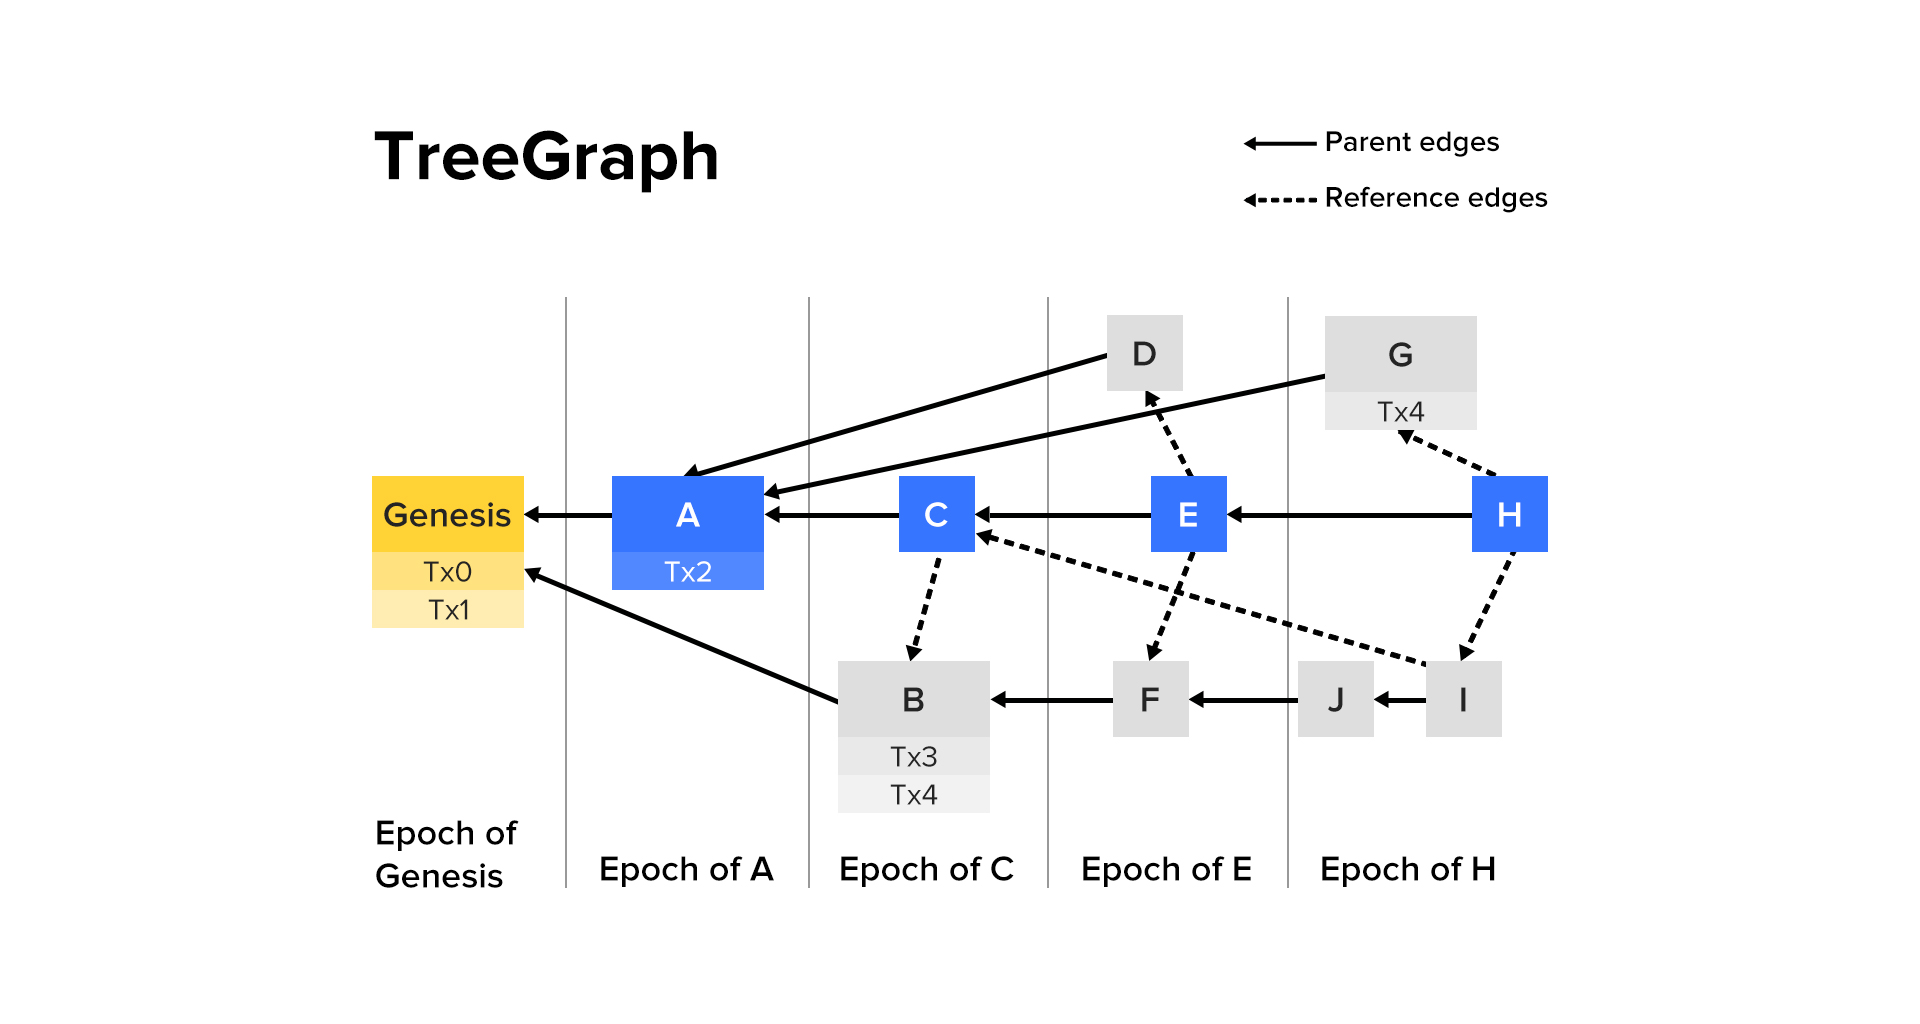
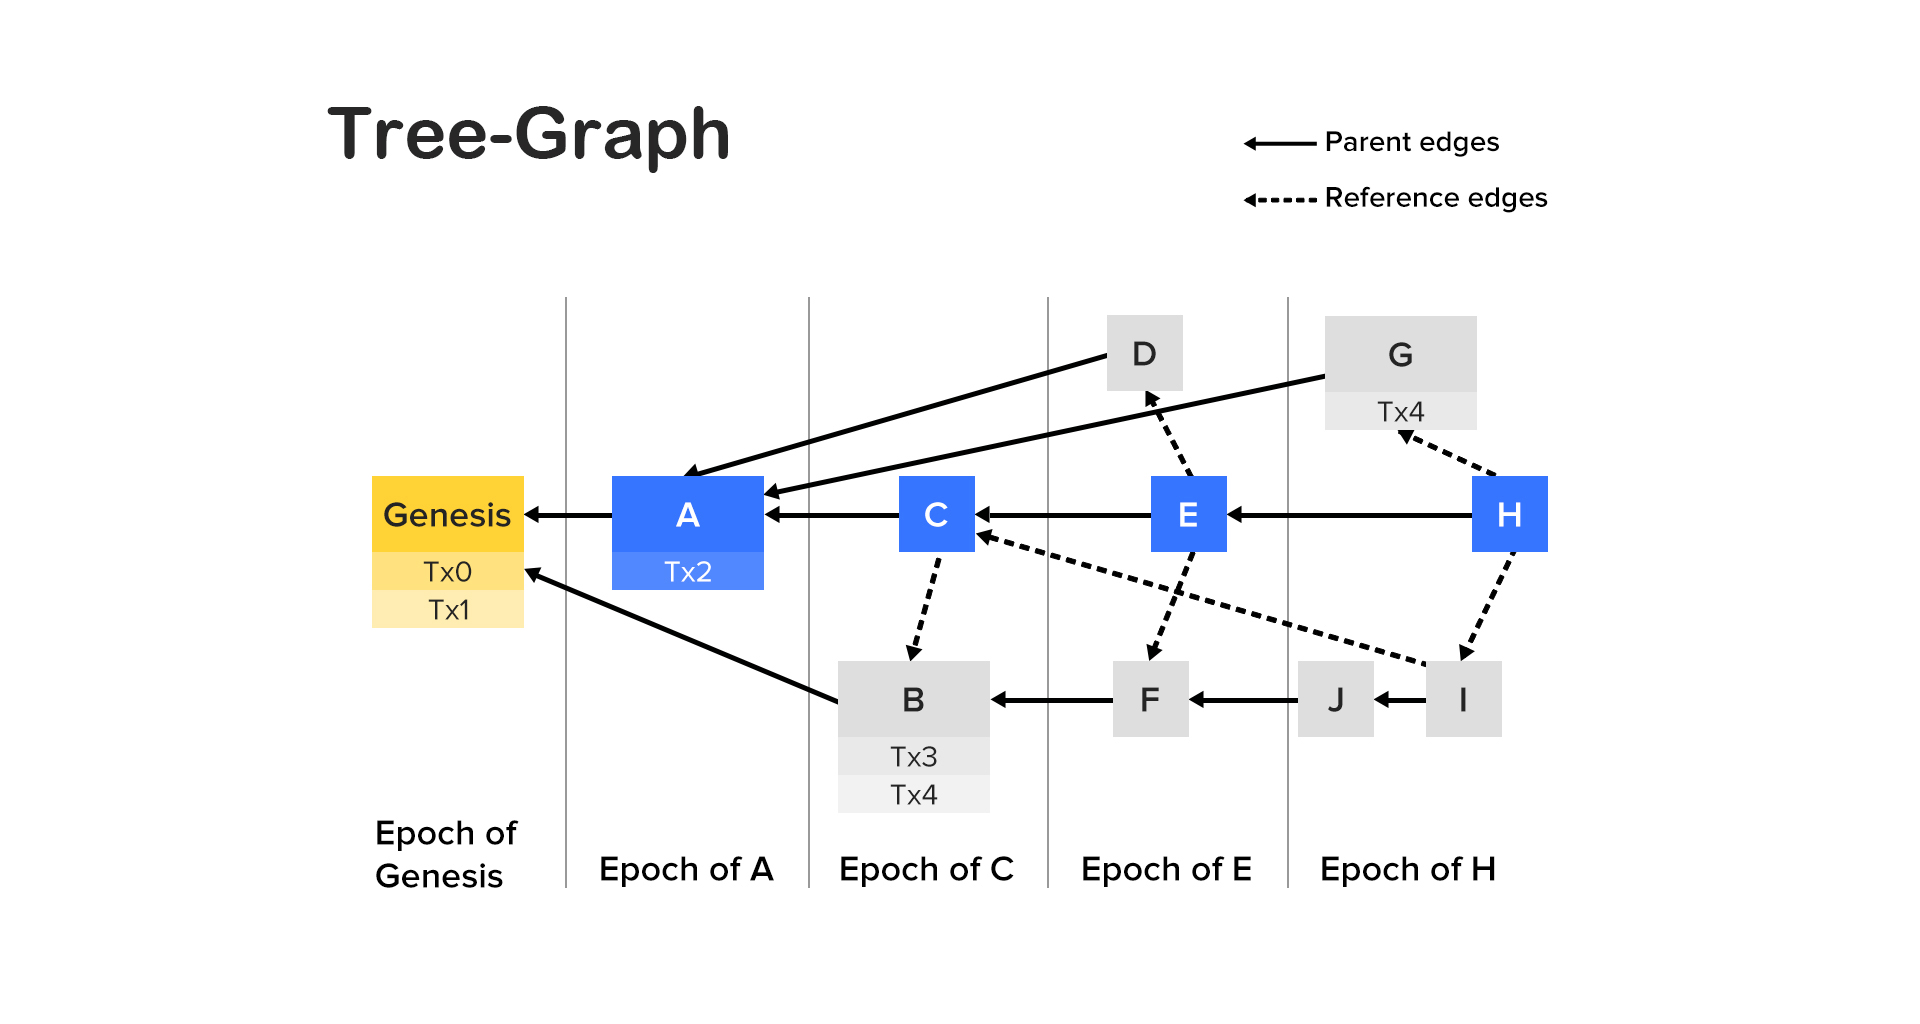
remove landing page

Changed region(s): [[0.1562, 0.0938, 0.4062, 0.1875]]

diff --git a/docusaurus.config.js b/docusaurus.config.js
@@ -105,6 +105,7 @@ const docusaurusConfig = {
       {
         docs: {
           sidebarPath: require.resolve('./sidebars.js'),
+          routeBasePath: '/',
           // Please change this to your repo.
           editUrl:
             'https://github.com/facebook/docusaurus/edit/master/website/',

diff --git a/docs/introduction/en/overview.md b/docs/introduction/en/overview.md
@@ -2,6 +2,7 @@
 id: conflux_overview
 title: Overview
 custom_edit_url: https://github.com/Conflux-Chain/conflux-developer-site/edit/master/docs/introduction/en/overview.md
+slug: /
 keywords:
   - conflux
   - overview
@@ -15,14 +16,14 @@ magnitude improvement on transaction throughput (TPS) and finality latency.
 
 The major superiority of Conflux hinges on its novel design of consensus
 protocol, authenticated storage, and transaction relay protocol. In Conflux
-ledger, blocks are organized as **TreeGraph** where each block references some
+ledger, blocks are organized as **Tree-Graph** where each block references some
 other blocks with one of them being its parent block. By only looking at the
 blocks linked with parent edges, the ledger appears to be a tree structure
 (parental tree), while by looking at all the blocks, it appears to be a directed
 acyclic graph. This is also the reason that we call the ledger structure of
-Conflux as TreeGraph. 
+Conflux as Tree-Graph. 
 
-<img alt="TreeGraph " src={useBaseUrl('img/tree_graph.jpg')} />
+<img alt="Tree-Graph " src={useBaseUrl('img/tree_graph.jpg')} />
 
 The consensus algorithm of Conflux, which is called
 **Greedy-Heaviest-Adaptive-SubTree** (GHAST), enables all the nodes in the
@@ -34,7 +35,7 @@ attack that tries to generate two balanced subtrees) that may hurt the liveness,
 i.e., the ability to confirm transactions, and thwart these attacks by
 adaptively adjusting the weights of the blocks.  
 
-The TreeGraph ledger and the GHAST consensus algorithm make Conflux nodes be
+The Tree-Graph ledger and the GHAST consensus algorithm make Conflux nodes be
 able to quickly generate new blocks without worrying about that the existence of
 forks in the ledger may harm the security of the network, and hence enable the
 system to achieve both the high throughput and the low transaction confirmation

diff --git a/docs/introduction/zh/storage.md b/docs/introduction/zh/storage.md
@@ -1,0 +1,4 @@
+
+
+1. https://juejin.cn/post/6855551378123653127
+2. 黄皮书
